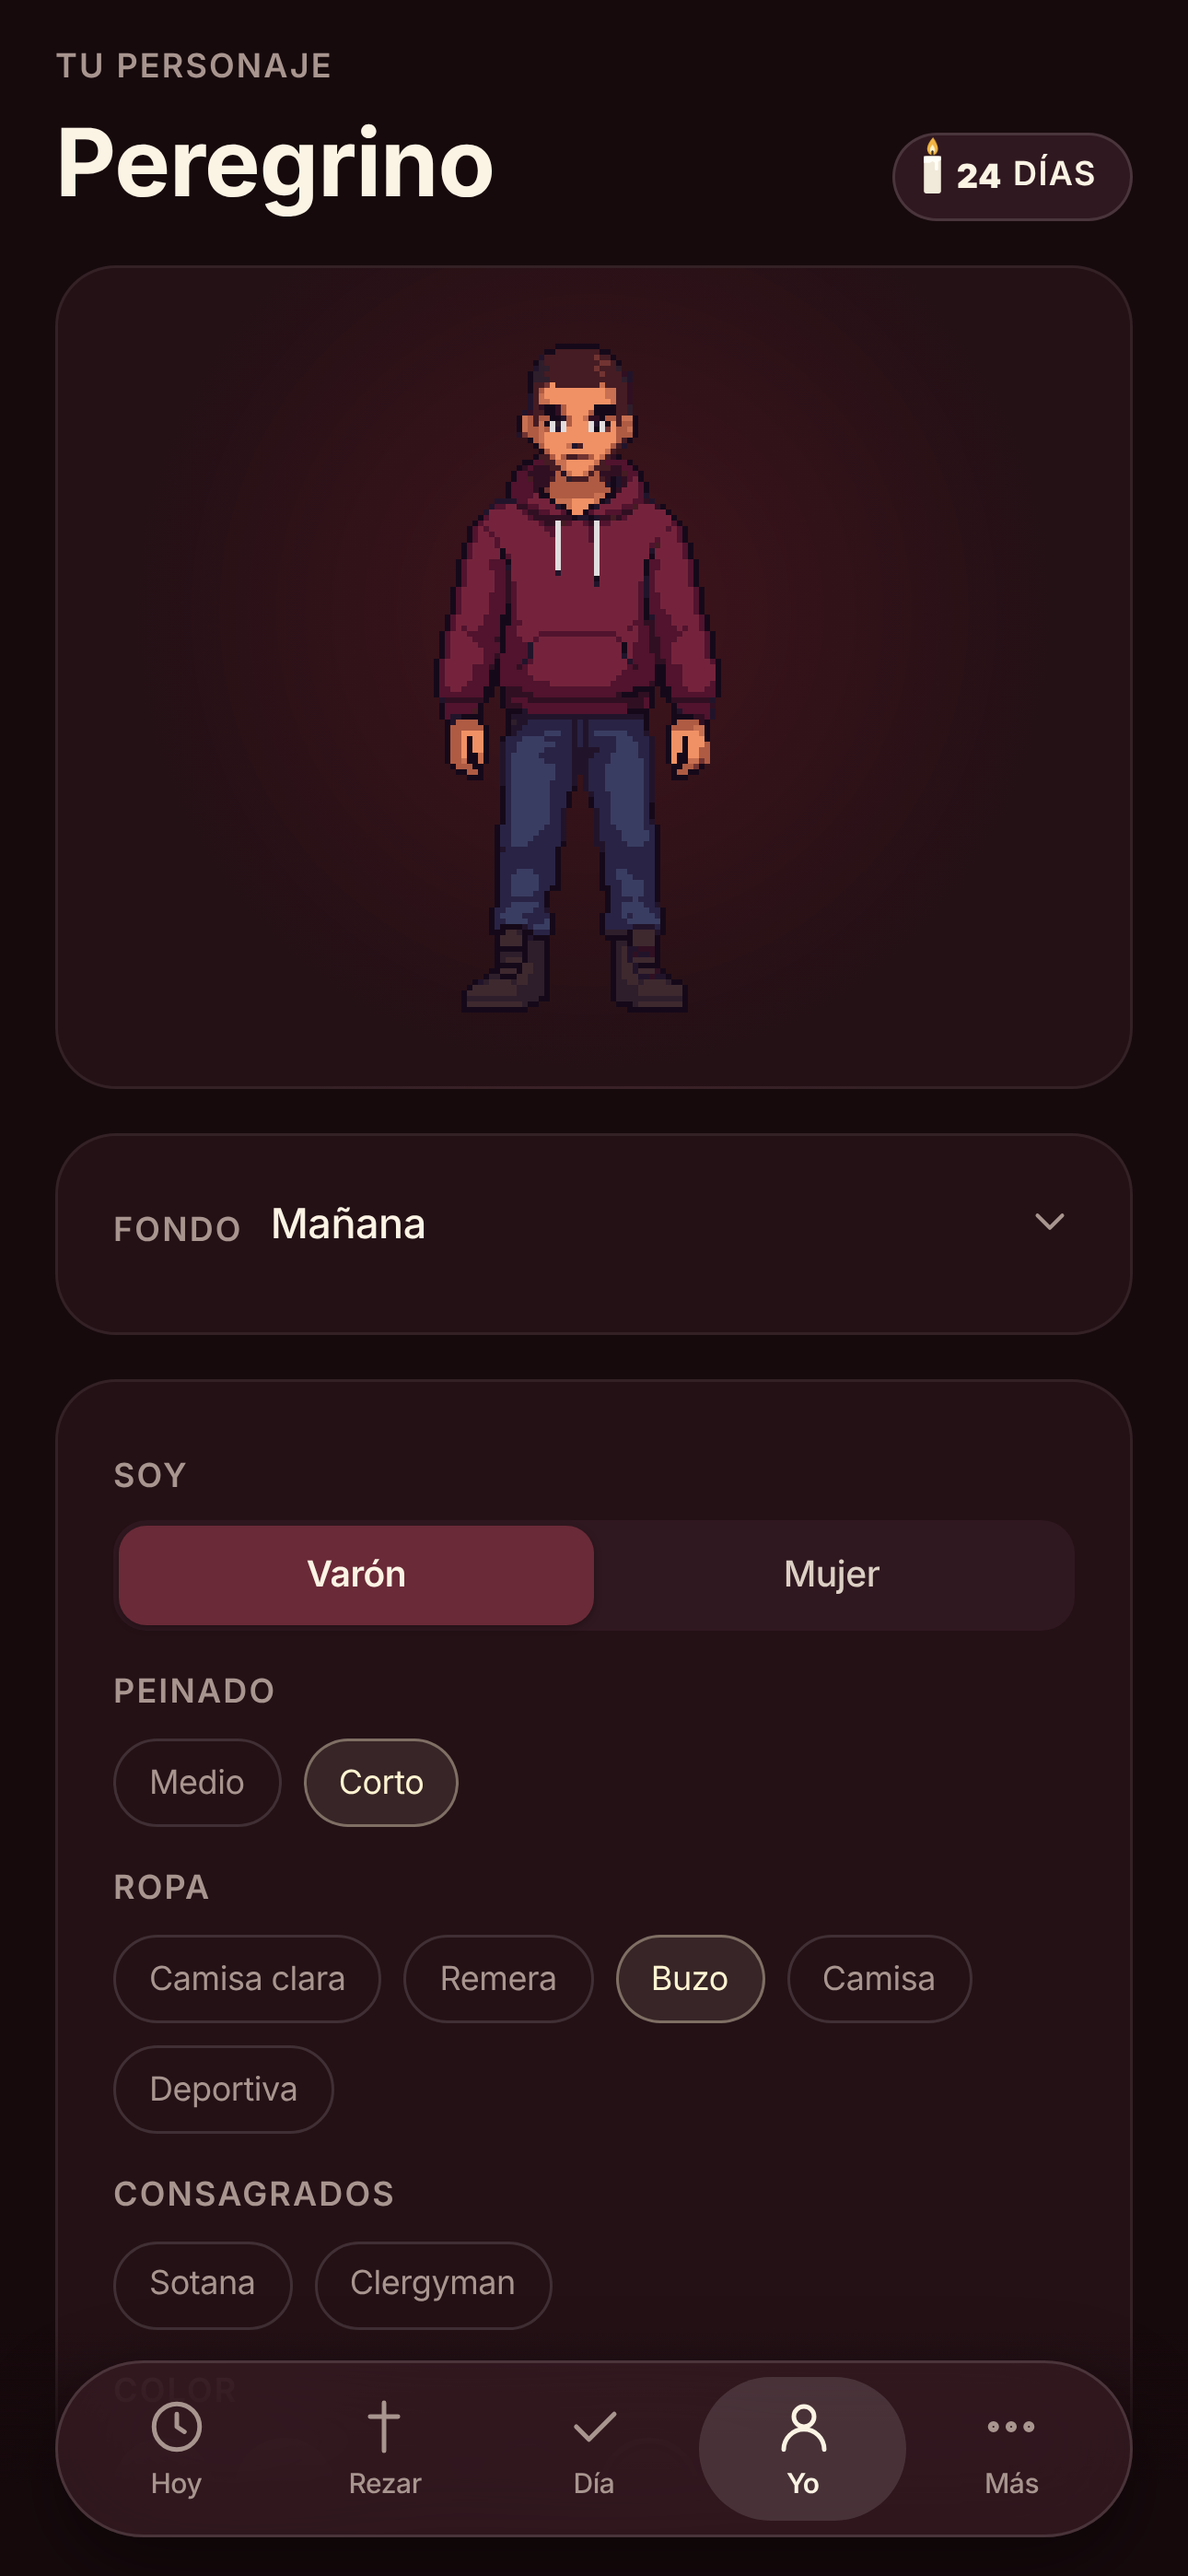
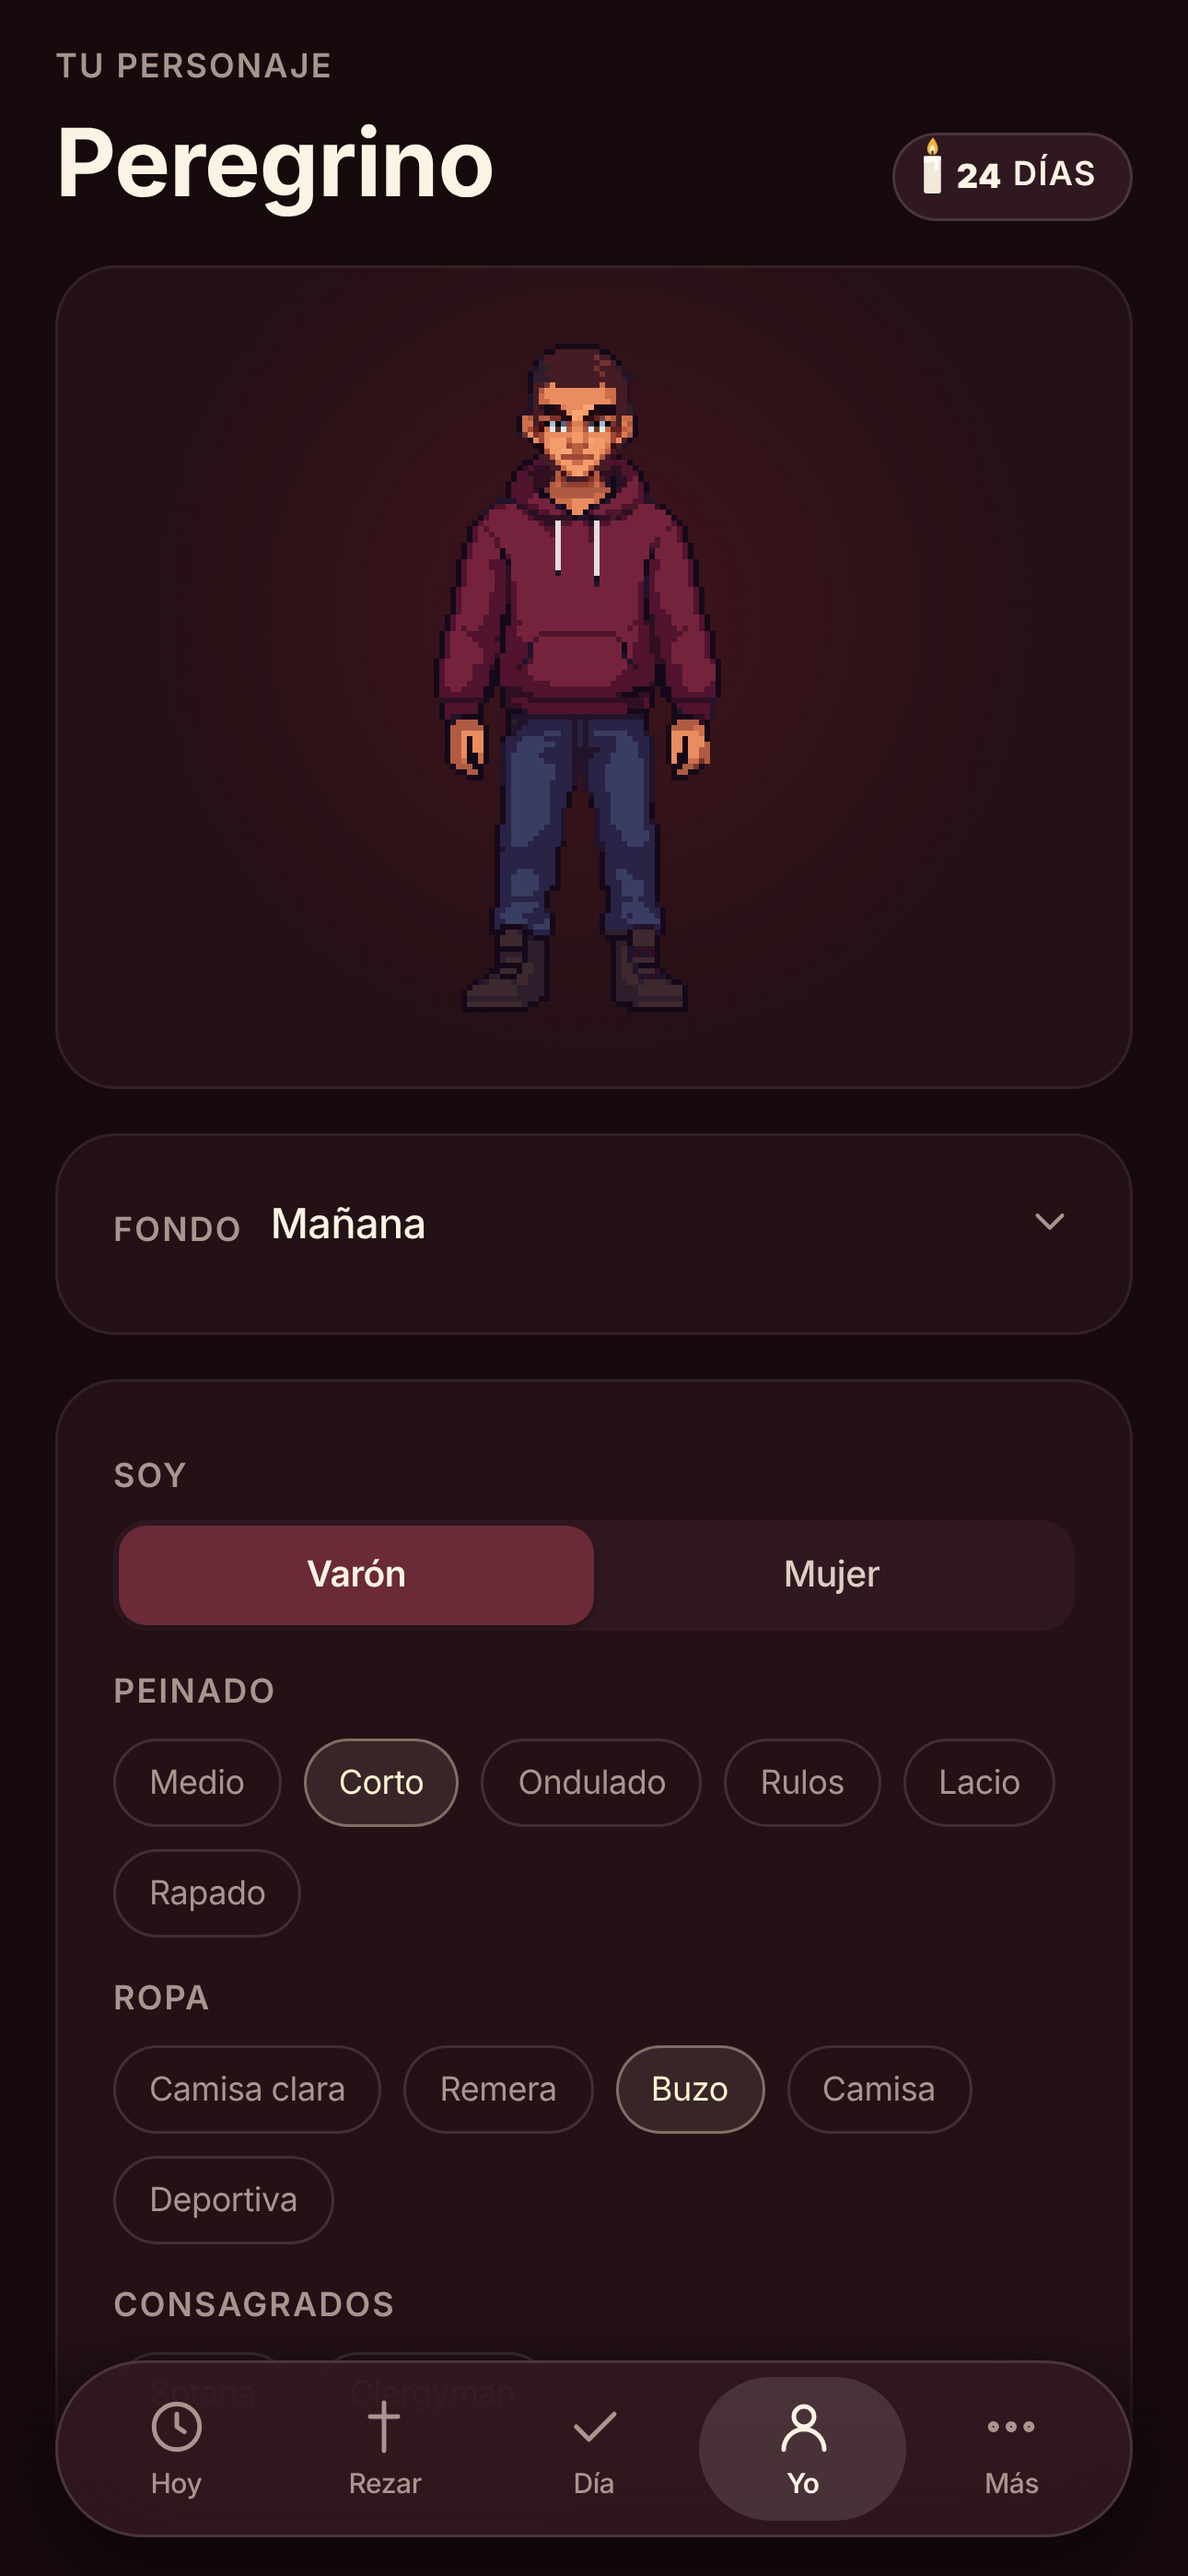
Daily 2.1.3: peinados de ella (Ondas, Trenza, Flequillo), capturas de tienda y LEEME
Claude-Session: https://claude.ai/code/session_018K2oLYSpPtdcPdEUVYj7Hk

diff --git a/pruebas/t25.js b/pruebas/t25.js
@@ -50,7 +50,7 @@ const { chromium } = require('playwright');
   await A('anioCompartir',null,1500); ok((await p.evaluate(()=>window.__dl))==='mi-anio-con-dios-2026.png','imagen generada y descargada');
   await A('anioIr',1,300); ok(!(await p.evaluate(()=>window.DAILY.get().sheet)),'pasar de la última cierra');
   // sin Scaeli+: paywall
-  await p.evaluate(()=>localStorage.setItem('daily_plus_como_gratis','1')); await A('anio',null,500); t=await T(); ok(/Scaeli\+/.test(t)&&/Tu año en historias/.test(t),'sin plus, paywall con el texto nuevo'); ok(/En su tiempo se suman la Cuaresma/.test(t),'texto nuevo de Caminos'); await A('cerrar'); await p.evaluate(()=>localStorage.removeItem('daily_plus_como_gratis'));
+  await p.evaluate(()=>localStorage.setItem('daily_plus_como_gratis','1')); await A('anio',null,500); t=await T(); ok(/Scaeli\+/.test(t)&&/Tu año en historias/.test(t),'sin plus, paywall con el texto nuevo'); ok(/Adviento, Navidad, Cuaresma y Pascua/.test(t),'texto de Caminos (los cuatro tiempos que trae)'); await A('cerrar'); await p.evaluate(()=>localStorage.removeItem('daily_plus_como_gratis'));
   // 5) grupo (local): ejemplo
   await p.evaluate(()=>window.DAILY.ir('hoy')); await p.waitForTimeout(400); t=await T(); ok(/Rezá con tus amigos/.test(t),'tarjeta del grupo en Hoy');
   await A('grupo'); t=await T(); ok(/Grupo de perseverancia/.test(t)&&/grupo de ejemplo/.test(t),'pantalla sin grupo (local) ofrece ejemplo');

diff --git a/herramientas/peinados.py b/herramientas/peinados.py
@@ -57,17 +57,18 @@ def poner_cabeza(B, Hd, D, M, caja, cut, extra):
     return out
 
 def pelo_abajo(Hd, D, cut):
-    """lo que el pelo nuevo agrega bajo el corte: píxeles distintos del deportivo y de color de pelo (no piel)."""
+    """lo que el pelo nuevo agrega bajo el corte (largo, ondas, trenza): lo que cambió respecto del deportivo,
+    pegado al pelo de arriba, más su contorno oscuro (que sobre la remera negra del deportivo no se distingue)."""
     dif = np.abs(Hd[:, :, :3].astype(int) - D[:, :, :3].astype(int)).sum(2) > 60
-    r, g, b = [Hd[:, :, i].astype(int) for i in range(3)]
-    pelo = (Hd[:, :, 3] > 0) & (r >= g) & (g >= b - 8) & ((r + g + b) < 420) & ~((r > 140) & (r - b > 60))
-    m = dif & pelo; m[:cut] = False
-    # solo lo que toca el pelo de arriba (no manchas sueltas de la ropa)
-    lab, n = ndimage.label(m); keep = np.zeros_like(m)
+    dif &= (Hd[:, :, 3] > 0); dif[:cut] = False
+    oscuro = (Hd[:, :, 3] > 0) & (Hd[:, :, :3].astype(int).sum(2) < 170)
+    cand = dif | (oscuro & ndimage.binary_dilation(dif)); cand[:cut] = False   # el contorno une los tramos (trenza)
+    lab, n = ndimage.label(cand); keep = np.zeros_like(cand)
     for i in range(1, n + 1):
         z = lab == i
-        if z.sum() >= 3 and np.argwhere(z)[:, 0].min() <= cut + 1: keep |= z
-    return keep
+        if z.sum() >= 3 and np.argwhere(z)[:, 0].min() <= cut + 2: keep |= z
+    borde = ndimage.binary_dilation(keep) & oscuro & ~keep; borde[:cut] = False
+    return keep | borde
 
 def main():
     pj = json.load(open(R + 'pj.json'))

diff --git a/LEEME-DAILY.md b/LEEME-DAILY.md
@@ -1,6 +1,6 @@
 # Scaeli Daily · LEEME para seguir en otro chat
 
-Pegale esto al chat nuevo (o decile «leé LEEME-DAILY.md del proyecto»). Estado al **15/11/2026, versión 2.1.2**.
+Pegale esto al chat nuevo (o decile «leé LEEME-DAILY.md del proyecto»). Estado al **15/11/2026, versión 2.1.3**.
 
 ## Qué es
 App de oración diaria de Scaeli (PWA + app nativa con Capacitor), hermana de Scaeli Fit y del juego. Lema «Tu fe, a otro nivel». Español rioplatense con voseo. Estilo (desde 2.0): bordó oscuro y crema («rojo y blanco»), tipografía del sistema, sobrio, católico, con aspecto de app nativa de Apple; pixel art de PixelLab en personaje e ilustraciones (no se retoca por código). Guía visual vigente: doc del proyecto `claude/LEEME-DISENO-2.0.md` (paleta, medidas y lienzo de diseño).
@@ -8,14 +8,14 @@ App de oración diaria de Scaeli (PWA + app nativa con Capacitor), hermana de Sc
 ## Dónde está todo
 - **Código**: GitHub `LDiazVidela/scaeli-daily`, rama `main`. El chat nuevo lo clona (no hace falta zip): `gh repo clone LDiazVidela/scaeli-daily` (si no tiene acceso, agregar el repo a la sesión).
 - **App publicada**: https://ldiazvidela.github.io/scaeli-daily/ — cada push a `main` despliega solo (`.github/workflows/pages.yml`). Si el despliegue da error 500 de GitHub, relanzar: `gh api repos/LDiazVidela/scaeli-daily/actions/workflows/pages.yml/dispatches --method POST -f ref=main`.
-- **Vista previa**: Artifact https://claude.ai/artifact/P66mHh3tnxMV1vLUqQin9x (versión 38 = Daily 2.1.2). Se publica con `root` = carpeta del repo y `files` = solo los archivos cambiados; label «Daily X.Y · vista previa».
+- **Vista previa**: Artifact https://claude.ai/artifact/P66mHh3tnxMV1vLUqQin9x (versión 39 = Daily 2.1.3). Se publica con `root` = carpeta del repo y `files` = solo los archivos cambiados; label «Daily X.Y · vista previa».
 - **Historia completa versión por versión**: doc del proyecto `LEEME-PRIMERO.md`, en el párrafo que empieza «**Daily 1.4.1**» (todo lo de Daily está ahí, en orden).
 - **Firebase**: proyecto `scaeli` (compartido con Fit y el juego). Contrato de Scaeli+ y reglas: `docs/SCAELI_PLUS_COMPARTIDO.md` (copia idéntica del repo de Fit, no se modifica).
 
 ## Cómo está hecha
 - `index.html` (íconos SVG `<symbol id="i-…">`), `css/app.css` + **`css/v2.css`** (la piel 2.0: se carga después y solo pisa lo visual; los cambios de aspecto van ahí), `js/app.js` (todo: vistas, `ACC` = acciones de `data-a`, `openSheet/renderSheet`), `js/firebase.js` (backend Firestore y local sin cuenta, grupos, `plusBackend`), `js/nativo.js` (Capacitor, RevenueCat), `js/personaje.js`.
 - Datos: `data/juego.js` (ORACIONES con `lat`, CONFESION, misterios…), `data/oraciones_mas.js` (GENERADO por `herramientas/texto_extra.py` desde `herramientas/textos/*.json`), `data/examen.js` (CAPITALES, VIDA, CONF_CIERRE), `data/habitos.js` (126, `g` j/a), `data/cartas.js` (GENERADO por `herramientas/cartas_santos.py`: las 79 cartas del álbum, con `assets/santos/*.png` del juego), `data/novenas.js` + `novenas/` (GENERADOS por `herramientas/novenas_propias.mjs` desde `herramientas/textos/novenas.mjs`), `data/citas.js` (GENERADO por `herramientas/citas.mjs`: meditaciones del Rosario, Lectio de respaldo y pie de Rezar con la Platense; `herramientas/platense.mjs` arma cualquier lectura desde su cita), `data/libros.js` + `libros/`, `biblia/`, `evangelio/`, `horas/`, `data/ordo/` (hay que sumar 2029 antes de fin de 2028).
-- Service worker `sw.js`: **subir `scaeli-daily-vN` en cada entrega** (hoy v33) y `VERSION` en `js/app.js` (hoy "2.1.2").
+- Service worker `sw.js`: **subir `scaeli-daily-vN` en cada entrega** (hoy v34) y `VERSION` en `js/app.js` (hoy "2.1.3").
 - No cambiar claves internas con «scala»/«scaeli-daily» de localStorage ni de caché.
 
 ## Cómo se prueba (todo verde o no se entrega)
@@ -38,7 +38,7 @@ bash pruebas/todo.sh                                     # levanta el servidor e
 ## Reglas de Lorenzo
 - Se programa/publica cuando Lorenzo dice «programar» (o «dale»); si no, se mandan propuestas.
 - Listas largas: todo en una sola entrega. Respuestas cortas.
-- Personaje: dibujos de PixelLab (`herramientas/pj_crudo.py`). Desde 2.1.2, por pedido de Lorenzo («la cara del varón siempre tiene que ser la del deportivo… lo mismo con la mujer»), la cara del deportivo y de la deportiva se pega píxel a píxel en todos los dibujos con `herramientas/caras.py` (alineada por los ojos; pelo, velo y ropa intactos; tono de piel igualado). No se tiñe ni se redibuja nada más por código. Gemini (ni el Pro) no copia la cara exacta: probado el 15/11.
+- Personaje: dibujos de PixelLab (`herramientas/pj_crudo.py`). Desde 2.1.2, por pedido de Lorenzo («la cara del varón siempre tiene que ser la del deportivo… lo mismo con la mujer»), la cara del deportivo y de la deportiva se pega píxel a píxel en todos los dibujos con `herramientas/caras.py` (alineada por los ojos; pelo, velo y ropa intactos; tono de piel igualado). No se tiñe ni se redibuja nada más por código. Gemini (ni el Pro) no copia la cara exacta: probado el 15/11. Desde 2.1.3 hay **peinados nuevos** (los del creador de personajes del juego): Gemini Pro cambia solo el pelo del deportivo/la deportiva (`herramientas/gemini/pelo_*.png`) y `herramientas/peinados.py` pone esa cabeza (con la cara exacta) sobre el cuerpo de cada prenda (pelo corto/carré), alineada por los ojos, más lo que el pelo baja por la ropa. Orden: `caras.py` y después `peinados.py` (este parte de las hojas con caras: si se rehace, partir de las de 2.1.2).
 - Examen y textos de oración: tono sobrio, sin malas palabras ni lunfardo.
 - Scaeli+ y `firestore.rules` siguen el contrato compartido: las reglas se publican enteras (users + grupos con miembros y mensajes + codes), nunca por partes.
 
@@ -50,6 +50,7 @@ bash pruebas/todo.sh                                     # levanta el servidor e
 - **Más adelante**: poses de oración; audio guiado; insignias del grupo leídas por el juego; el logo del atleta en las 8 vistas de Fit.
 
 ## Últimas versiones (detalle en LEEME-PRIMERO.md)
+- **2.1.3** (15/11, «no me gusta este diseño [lugar vacío del álbum] / sacar del juego los diseños de peinados / el clergyman no tiene pelo largo y cambia bastante la cara»): **lugar vacío del álbum** rediseñado (`huecoHTML`: el marco de su rareza apagado, la silueta del santo en negro con luz de borde, número en el medallón, nombre, fecha y rareza; la celda sigue siendo `.cw.hueco`). **Peinados nuevos** (los del creador del juego, hechos con Gemini Pro y armados con `herramientas/peinados.py`): él Ondulado, Rulos, Lacio y Rapado; ella Ondas, Trenza y Flequillo, con todas las prendas (no las de velo): 112 dibujos de él y 104 de ella (`PEINADOS`; «Lacio» y no «Largo», porque el pelo largo de él se sacó en 1.8.1). **Clergyman** con la cabeza de los demás: pelo Medio (cabeza del deportivo) y Corto (la de la sotana corta); `FIJO` quedó vacío (la deportiva también tiene peinados). Scaeli+: el texto de Caminos dice lo que trae (Adviento, Navidad, Cuaresma y Pascua). **Pagos desde la web** (sin cuentas de desarrollador): `gracias.html` (adonde vuelve quien paga; cómo activar el código y cancelar), términos y privacidad con Mercado Pago (pesos) y PayPal (dólares); los planes los crea Lorenzo en su Mercado Pago (Planes de suscripción: «Scaeli+ mensual» $4.700, anual $31.600) y el código se manda a mano (colección `codes`: `days`, `max`, `uses`, `label`). Ficha de tienda dentro de 4000 caracteres y capturas rehechas. SW v34.
 - **2.1.2** (15/11, «la cara del varón siempre la del deportivo… lo mismo con la mujer / diseñar álbum y cartas con Gemini»): **misma cara en los 86 dibujos** (34 de varón con la del deportivo, 52 de mujer con la de la deportiva, incluidas las consagradas): `herramientas/caras.py` pega la cara de PixelLab píxel a píxel sobre cada dibujo original, sin tocar pelo, velo ni ropa, e iguala la piel. Se probó primero con Gemini (Plus y Pro): cambiaba la cara en cada dibujo, así que se descartó. **Cartas y álbum en pixel art hechos con Gemini Pro** (`herramientas/gemini/` → `herramientas/cartas_gemini.py` → `assets/cartas/`): un marco ornamental recoloreado por rareza con los colores de `CR` (Gloria, Mártir, Oro, Plata) con el número en el medallón (`.cnum`), el panel de la carta adentro escalado (`.pin`, ×0,84), dorso nuevo (arco, cruz y escalera), sobre bordó con sello de lacre (`.sobre3.v2`) y portada del álbum arriba de «Tus cartas» (`.albport`). Las versiones SVG viejas quedan como `cartaMarcoSvg`, `dorsoHTMLSvg` y `sobreHTMLSvg`. Prueba nueva `t34.js` (caras iguales píxel a píxel y arte de las cartas). SW v33.
 - **2.1.1** (15/11, «¿tenemos permiso para los libros de la biblioteca?»): NO. Los PDF de mercaba.es de Santa Teresa (Vida, Camino, Moradas, Exclamaciones) y San Juan de la Cruz (Subida, Llama) son la edición de la **Editorial Monte Carmelo** («© La presente edición… prohíbe expresamente la reproducción… o su publicación en internet»), Camino traía ~30 notas de sus editores, y los demás (Noche, Cántico, Avisos, Poesías) son de origen moderno sin aclarar. Se sacaron los 10 libros; quedan para leer en la app los **Ejercicios** (transcripción literal del autógrafo) y la **Imitación** (trad. Nieremberg, s. XVII), y Santa Teresa y San Juan de la Cruz se abren como enlaces a ediciones de dominio público en archive.org (Burgos 1915; Toledo 1912) (`LIBROS_FUERA` en `data/libros.js`). `herramientas/libros_mb.py` ya solo arma esos dos. Si se quiere volver a tenerlos dentro: transcribir de una edición antigua (La Fuente 1877 para Teresa; Gerardo 1912 para Juan), sin las notas de los editores. SW v32.
 - **2.1**: Rosario en orden: señal de la cruz y Credo → Yo confieso o Pésame (`profile.rosActo`, fase `contri`) → cinco misterios → Salve → al final Padrenuestro, tres Avemarías y Gloria por el Papa y la Iglesia (la fase vieja `ini` de Fit se puede terminar igual); ícono nuevo del Gloria (`i-gloria`, la Trinidad). Derechos: Horas solo enlace (se borraron `horas/` y su paso del workflow), lecturas del día y de la Misa con la Platense, 30 novenas propias (nuevas: Luján, Valle, Rita, San Miguel) con enlace «Más novenas en Catholic.net», cánticos con la Platense, Te Deum/Veni Creator/Regina caeli traducidos, examen reescrito, meditaciones/Lectio/pie con la Platense, Inter local, Créditos y licencias, `LICENSE`, `LICENCIAS-TERCEROS.md`, logos viejos borrados. Cumplimiento: consentimiento de datos sensibles una vez por cuenta (`profile.consent`), bloquear en el grupo (`profile.bloq`: oculta muro, intención, actividad y alientos), privacidad/términos/borrar-cuenta con el correo nuevo y puntos renumerados (3 = Datos sensibles), formularios de tienda. Scaeli+: caminos de Navidad (25/12–10/1), Cuaresma (10/2–27/3/2027) y Pascua (28/3–16/5/2027), semanas de domingo a sábado. Historial de git reiniciado (un solo commit). Prueba nueva `t33.js`. SW v31.
